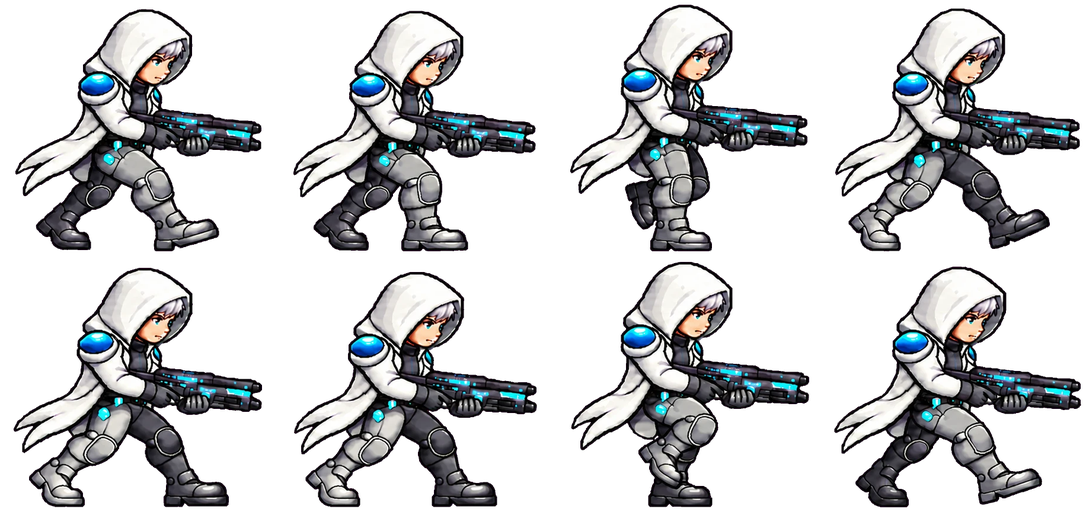
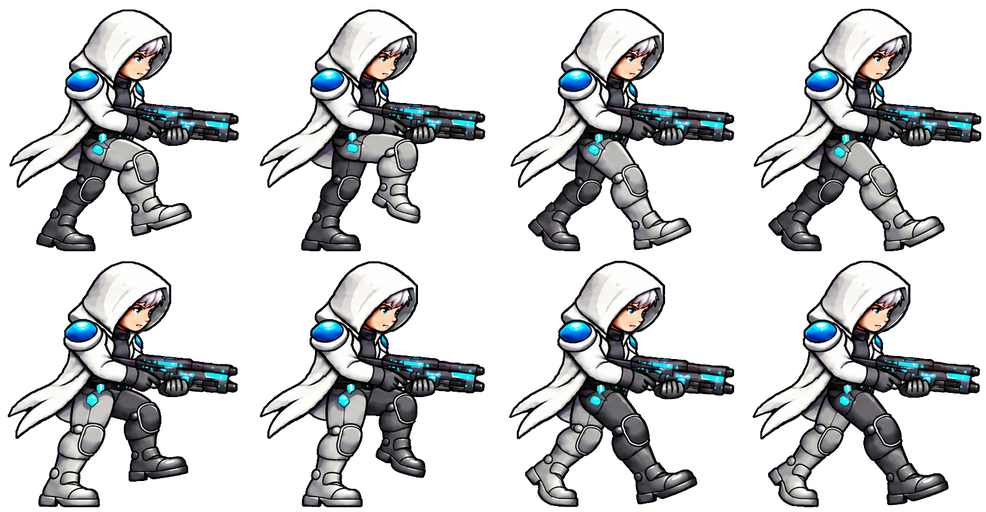
R121: 기억사수 옆 걷기 — 앞다리가 무릎을 접어 드는 8프레임, 오르내림 타이밍 맞춤

diff --git a/r96/client-source/visual-r119.js b/r96/client-source/visual-r119.js
@@ -76,7 +76,7 @@
  try{if(typeof fetch==='function')fetch((typeof urlFor==='function'?urlFor(WALK_DIR+'index.json'):WALK_DIR+'index.json')).then(r=>r.ok?r.json():null).then(j=>{if(j?.plan)Object.assign(walkPlan,j.plan);}).catch(()=>{});}catch(_){}
  const DIR8=['e','se','s','sw','w','nw','n','ne'],NEAR={n:['ne','nw'],s:['se','sw'],e:['ne','se'],w:['nw','sw'],ne:['e','n'],nw:['w','n'],se:['e','s'],sw:['w','s']};
  // R121: 기억사수는 서 있기(R93 치비 비율)와 같은 비율로 새로 그린 4프레임 걷기(ChatGPT 2026-10-29, scripts/r121-gunner-walk.py)를 쓴다.
- const OWN_WALK={gunner:{s:['s',0],se:['e8',0],e:['e8',0],ne:['ne',0],n:['n',0],sw:['e8',1],w:['e8',1],nw:['ne',1]}};// R121: 아래 대각선은 4장 대각선이 어색해(사용자) 옆 8장으로 대체// 옆(e8)은 무거운 보병 행군 원리로 다시 그린 8프레임(2줄)
+ const OWN_WALK={gunner:{s:['s',0],se:['e8',0],e:['e8',0],ne:['ne',0],n:['n',0],sw:['e8',1],w:['e8',1],nw:['ne',1]}};// R121: 아래 대각선은 4장 대각선이 어색해(사용자) 옆 8장으로 대체// 옆(e8)은 앞으로 나가는 다리가 무릎을 접어 들었다 내딛는 8프레임(2줄, 사용자 제안)
  const preloadWalk=()=>{try{if(typeof ensureImages==='function'&&typeof player==='object'&&player?.hero&&OWN_WALK[player.hero]){const ps=[...new Set(Object.values(OWN_WALK[player.hero]).map(v=>'assets/r121/walk/walk-'+player.hero+'-'+v[0]+'.png'))];if(ps.some(p=>!walkLoading.has(p))){ps.forEach(p=>walkLoading.add(p));Promise.resolve(ensureImages(ps)).catch(()=>ps.forEach(p=>walkMissing.add(p)));}}}catch(_){}};// 처음 걸을 때 예전 그림이 잠깐 보이지 않게 미리 받는다
  function sheetFor(hero,dir){const own=OWN_WALK[hero]?.[dir];if(own){const p='assets/r121/walk/walk-'+hero+'-'+own[0]+'.png';if(!walkMissing.has(p)){const n=own[0].endsWith('12')?12:own[0].endsWith('8')?8:4;return{path:p,mirror:!!own[1],cols:4,rows:n/4,frames:n,own8:n>4};}}
   if(dir==='n'){const ab=Math.floor(walkState.d*3.2)%2?'b':'a',p='assets/heroes/normalized/'+hero+'/run_back_'+ab+'.webp';if(!walkMissing.has(p))return{path:p,mirror:false,single:true};}/* R121: 위쪽 걷기 묶음이 없어 정면 위로 갈 때 뒷모습 달리기 2장 */const plan=walkPlan[hero];const tryDir=d=>{const p=plan?.[d];if(p&&p.use)return{path:WALK_DIR+'walk-'+hero+'-'+p.use+'.png',mirror:!!p.mirror};if(!plan)return{path:WALK_DIR+'walk-'+hero+'-'+d+'.png',mirror:false};return null;};
@@ -112,7 +112,7 @@
    let best=null,bh=0;for(let i=st;i<rec.commands.length;i++){const c=rec.commands[i];if(c.kind!=='image'||c.owner?.kind!=='hero'||!c.points||!BODY_ART.test(String(c.sourcePath||'')))continue;const h=Math.abs(c.points[3][1]-c.points[0][1]);if(h>bh){bh=h;best=c;}}
    if(!best)return r;const frame=sh.single?-1:Math.floor(walkState.d*(sh.frames===4?3.2:sh.frames===12?9.6:sh.own8?6.4:5))%(sh.frames||8),box=cellBox(row,sh.path,frame,sh.cols||4,sh.rows||2),im=row.image,want=(typeof actorHeight==='function'?actorHeight():bh)*(standRatio.v||.98),w=want*box[2]/box[3];
    // 걸음 무게감: 발을 디딘 직후 살짝 내려앉고(-1.5%), 다리가 엇갈릴 때 올라간다(+2.5%). 8프레임: 2·6번째가 가장 낮고 3·7번째가 가장 높다.
-   const n=sh.frames||8,ph=(n===12?[0,-1,-.4,1,.4,0,-1,-.4,1,.4,0,0][frame]:n===8?[0,-1,1,.4,0,-1,1,.4][frame]:[0,1,0,1][frame])??0,bob=(ph>0?.025*ph:.015*ph)*want;
+   const n=sh.frames||8,ph=(n===12?[0,-1,-.4,1,.4,0,-1,-.4,1,.4,0,0][frame]:n===8?[.6,1,.3,-1,.6,1,.3,-1][frame]:[0,1,0,1][frame])??0,bob=(ph>0?.025*ph:.015*ph)*want;
    const P=best.points,fx=(P[2][0]+P[3][0])/2,fy=Math.max(P[2][1],P[3][1])-bob,f=sh.mirror?-1:1;
    Object.assign(best,{image:im,sourcePath:im.src||sh.path,immutableTint:null,sourceRect:box.slice(),imageSize:[im.naturalWidth||im.width,im.naturalHeight||im.height],
     points:[[fx-f*w/2,fy-want],[fx+f*w/2,fy-want],[fx+f*w/2,fy],[fx-f*w/2,fy]],r121Walk:true});stats.walk=(stats.walk||0)+1;stats.walkDir=walkState.dir;}catch(e){lastError=String(e?.message||e);}

diff --git a/r96/runtime-text/visual-r119.js b/r96/runtime-text/visual-r119.js
@@ -76,7 +76,7 @@
  try{if(typeof fetch==='function')fetch((typeof urlFor==='function'?urlFor(WALK_DIR+'index.json'):WALK_DIR+'index.json')).then(r=>r.ok?r.json():null).then(j=>{if(j?.plan)Object.assign(walkPlan,j.plan);}).catch(()=>{});}catch(_){}
  const DIR8=['e','se','s','sw','w','nw','n','ne'],NEAR={n:['ne','nw'],s:['se','sw'],e:['ne','se'],w:['nw','sw'],ne:['e','n'],nw:['w','n'],se:['e','s'],sw:['w','s']};
  // R121: 기억사수는 서 있기(R93 치비 비율)와 같은 비율로 새로 그린 4프레임 걷기(ChatGPT 2026-10-29, scripts/r121-gunner-walk.py)를 쓴다.
- const OWN_WALK={gunner:{s:['s',0],se:['e8',0],e:['e8',0],ne:['ne',0],n:['n',0],sw:['e8',1],w:['e8',1],nw:['ne',1]}};// R121: 아래 대각선은 4장 대각선이 어색해(사용자) 옆 8장으로 대체// 옆(e8)은 무거운 보병 행군 원리로 다시 그린 8프레임(2줄)
+ const OWN_WALK={gunner:{s:['s',0],se:['e8',0],e:['e8',0],ne:['ne',0],n:['n',0],sw:['e8',1],w:['e8',1],nw:['ne',1]}};// R121: 아래 대각선은 4장 대각선이 어색해(사용자) 옆 8장으로 대체// 옆(e8)은 앞으로 나가는 다리가 무릎을 접어 들었다 내딛는 8프레임(2줄, 사용자 제안)
  const preloadWalk=()=>{try{if(typeof ensureImages==='function'&&typeof player==='object'&&player?.hero&&OWN_WALK[player.hero]){const ps=[...new Set(Object.values(OWN_WALK[player.hero]).map(v=>'assets/r121/walk/walk-'+player.hero+'-'+v[0]+'.png'))];if(ps.some(p=>!walkLoading.has(p))){ps.forEach(p=>walkLoading.add(p));Promise.resolve(ensureImages(ps)).catch(()=>ps.forEach(p=>walkMissing.add(p)));}}}catch(_){}};// 처음 걸을 때 예전 그림이 잠깐 보이지 않게 미리 받는다
  function sheetFor(hero,dir){const own=OWN_WALK[hero]?.[dir];if(own){const p='assets/r121/walk/walk-'+hero+'-'+own[0]+'.png';if(!walkMissing.has(p)){const n=own[0].endsWith('12')?12:own[0].endsWith('8')?8:4;return{path:p,mirror:!!own[1],cols:4,rows:n/4,frames:n,own8:n>4};}}
   if(dir==='n'){const ab=Math.floor(walkState.d*3.2)%2?'b':'a',p='assets/heroes/normalized/'+hero+'/run_back_'+ab+'.webp';if(!walkMissing.has(p))return{path:p,mirror:false,single:true};}/* R121: 위쪽 걷기 묶음이 없어 정면 위로 갈 때 뒷모습 달리기 2장 */const plan=walkPlan[hero];const tryDir=d=>{const p=plan?.[d];if(p&&p.use)return{path:WALK_DIR+'walk-'+hero+'-'+p.use+'.png',mirror:!!p.mirror};if(!plan)return{path:WALK_DIR+'walk-'+hero+'-'+d+'.png',mirror:false};return null;};
@@ -112,7 +112,7 @@
    let best=null,bh=0;for(let i=st;i<rec.commands.length;i++){const c=rec.commands[i];if(c.kind!=='image'||c.owner?.kind!=='hero'||!c.points||!BODY_ART.test(String(c.sourcePath||'')))continue;const h=Math.abs(c.points[3][1]-c.points[0][1]);if(h>bh){bh=h;best=c;}}
    if(!best)return r;const frame=sh.single?-1:Math.floor(walkState.d*(sh.frames===4?3.2:sh.frames===12?9.6:sh.own8?6.4:5))%(sh.frames||8),box=cellBox(row,sh.path,frame,sh.cols||4,sh.rows||2),im=row.image,want=(typeof actorHeight==='function'?actorHeight():bh)*(standRatio.v||.98),w=want*box[2]/box[3];
    // 걸음 무게감: 발을 디딘 직후 살짝 내려앉고(-1.5%), 다리가 엇갈릴 때 올라간다(+2.5%). 8프레임: 2·6번째가 가장 낮고 3·7번째가 가장 높다.
-   const n=sh.frames||8,ph=(n===12?[0,-1,-.4,1,.4,0,-1,-.4,1,.4,0,0][frame]:n===8?[0,-1,1,.4,0,-1,1,.4][frame]:[0,1,0,1][frame])??0,bob=(ph>0?.025*ph:.015*ph)*want;
+   const n=sh.frames||8,ph=(n===12?[0,-1,-.4,1,.4,0,-1,-.4,1,.4,0,0][frame]:n===8?[.6,1,.3,-1,.6,1,.3,-1][frame]:[0,1,0,1][frame])??0,bob=(ph>0?.025*ph:.015*ph)*want;
    const P=best.points,fx=(P[2][0]+P[3][0])/2,fy=Math.max(P[2][1],P[3][1])-bob,f=sh.mirror?-1:1;
    Object.assign(best,{image:im,sourcePath:im.src||sh.path,immutableTint:null,sourceRect:box.slice(),imageSize:[im.naturalWidth||im.width,im.naturalHeight||im.height],
     points:[[fx-f*w/2,fy-want],[fx+f*w/2,fy-want],[fx+f*w/2,fy],[fx-f*w/2,fy]],r121Walk:true});stats.walk=(stats.walk||0)+1;stats.walkDir=walkState.dir;}catch(e){lastError=String(e?.message||e);}
